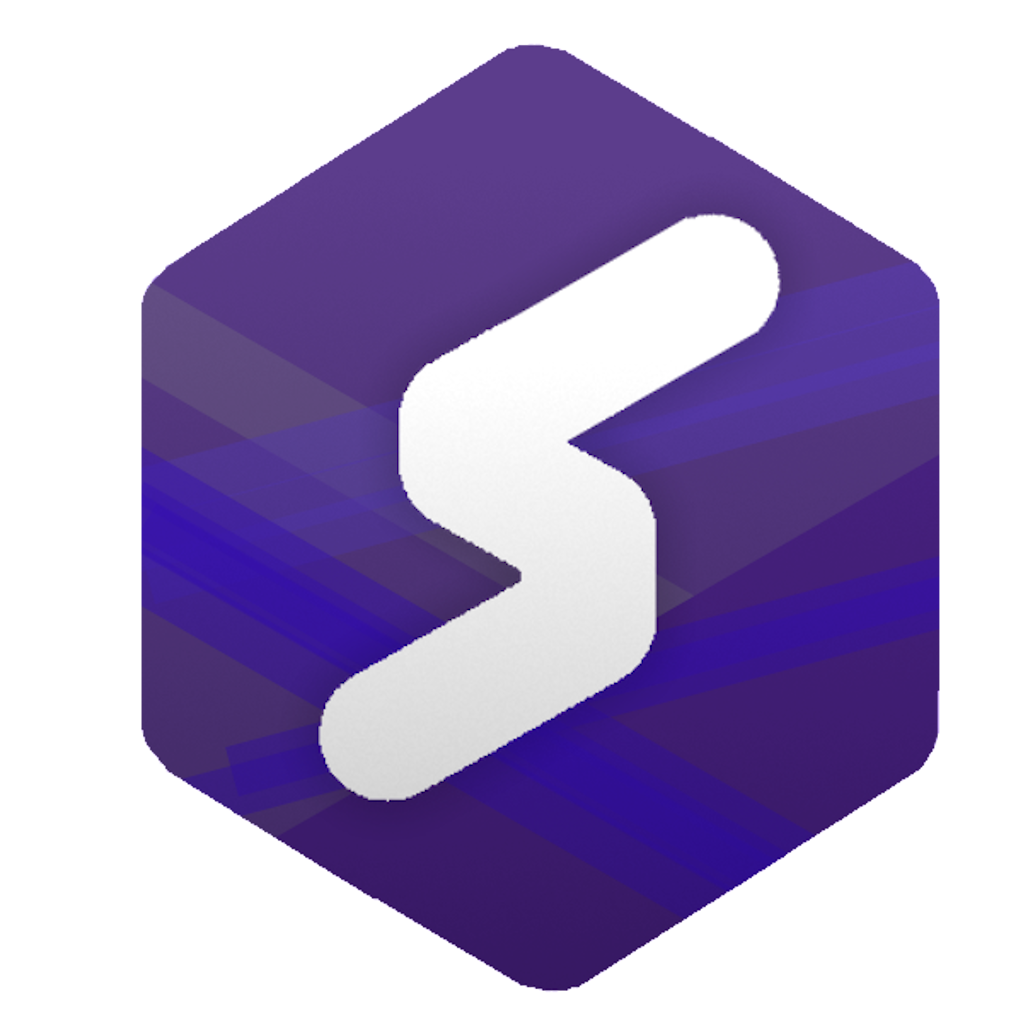
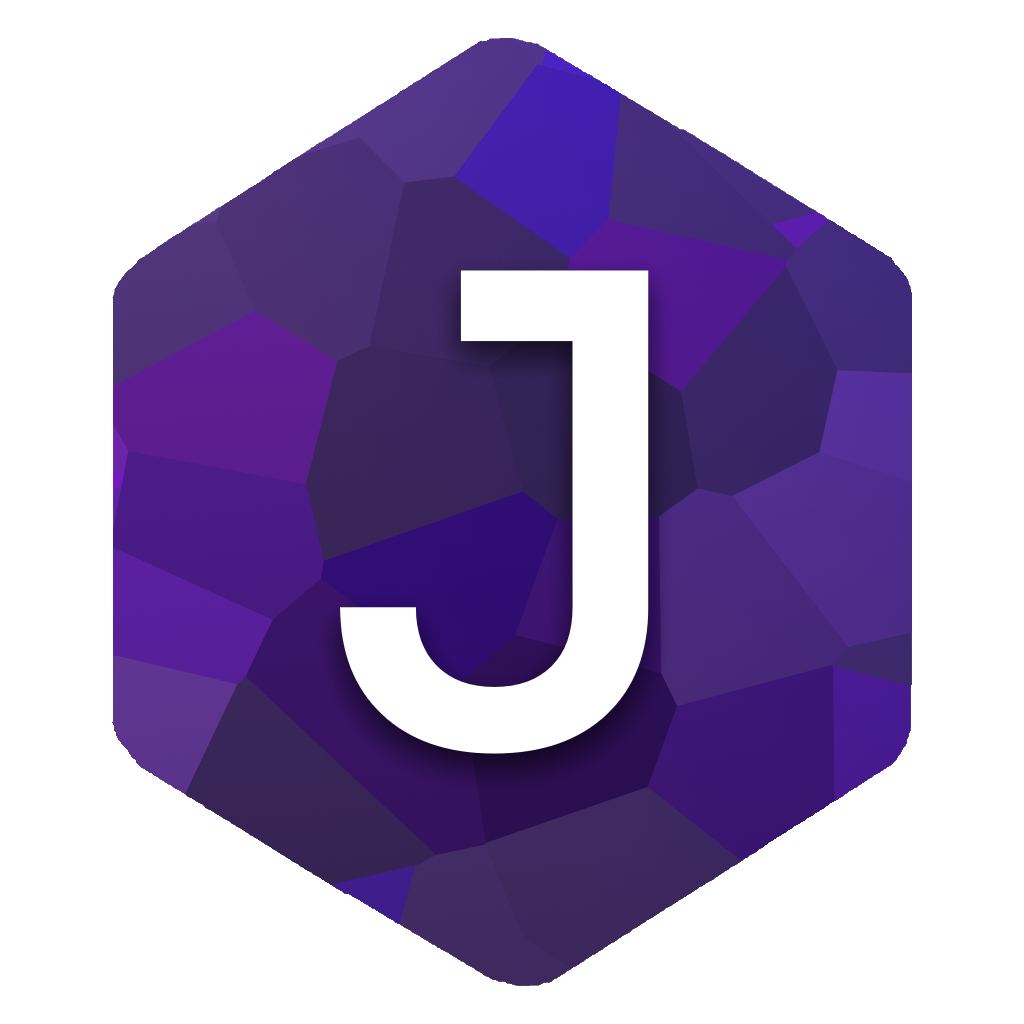
Upravil jsem profilovku, přidal tlačítka pro zobrazení dalšího týdne i toho nynějšího, forcenuti aby se obrazovka dala do landscape a opravil když je půlená hodina (např. Spj/Nej se rozdělilo na 2 hodiny - teď opraveno)

diff --git a/src/main.py b/src/main.py
@@ -7,12 +7,7 @@ import config
 
 config_data = Path(__file__).parent / "config.py"
 
-placeholder_datum = True
-
-if placeholder_datum:
-    datum = "2026-06-15"
-else:
-    datum = date.today().strftime('%Y-%m-%d')
+datum = date.today().strftime('%Y-%m-%d')
 
 days_list = [
     ["Pondělí"],
@@ -65,9 +60,19 @@ def request_timetable():
     response.raise_for_status()
     return response.json()
 
+
+def load_timetable():
+    try:
+        tokengen()
+        timetable_json = request_timetable()
+        get_data_for_timetable(timetable_json)
+        return None
+    except Exception as e:
+        return f"{type(e).__name__}: {e}"
+
 def get_data_for_timetable(timetable_data):
     day_to_row_index = {1: 0, 2: 1, 3: 2, 4: 3, 5: 4}
-    max_lessons = 10
+    max_lessons = 9
 
     subjects_by_id = {
         s["Id"]: s.get("Abbrev") or s.get("Name") or "N/A"
@@ -81,19 +86,31 @@ def get_data_for_timetable(timetable_data):
         if row_idx is None:
             continue
 
+        lessons_by_hour = {}
         for atom in sorted(day.get("Atoms", []), key=lambda a: a.get("HourId", 0)):
+            hour_id = atom.get("HourId", 0)
             subject_id = atom.get("SubjectId") or atom.get("Change", {}).get("SubjectId")
             if subject_id:
-                lessons_by_row[row_idx].append(subjects_by_id.get(subject_id, f"ID:{subject_id}"))
+                lesson_text = subjects_by_id.get(subject_id, f"ID:{subject_id}")
             else:
-                lessons_by_row[row_idx].append(atom.get("DayDescription", ""))
+                lesson_text = atom.get("DayDescription", "")
+
+            if not lesson_text:
+                continue
+
+            lessons_by_hour.setdefault(hour_id, [])
+            if lesson_text not in lessons_by_hour[hour_id]:
+                lessons_by_hour[hour_id].append(lesson_text)
+
+        for hour_id in sorted(lessons_by_hour):
+            lessons_by_row[row_idx].append("/".join(lessons_by_hour[hour_id]))
 
     for row_idx, row in enumerate(days_list):
         day_name = row[0]
         lessons = lessons_by_row.get(row_idx, [])[:max_lessons]
         lessons += [""] * (max_lessons - len(lessons))
         row[:] = [day_name] + lessons
-
+        
 def login_page(page: ft.Page):
     page.clean()
 
@@ -197,24 +214,15 @@ def login_page(page: ft.Page):
 
 def main(page: ft.Page):
 
-    page.clean()
-
     COLUMNS = ["Den", "1", "2", "3", "4", "5", "6", "7", "8", "9"]
     COLUMNS_TIMES = ["Den", "8:10 - 8:55", "9:00 - 9:45", "10:00 - 10:45", "10:55 - 11:40", "11:50 - 12:35", "12:45 - 13:30", "13:35 - 14:20", "14:00 - 14:45", "14:50 - 15:35"]
 
-    error_message = None
-
-    try:
-        tokengen()
-        timetable_json = request_timetable()
-        get_data_for_timetable(timetable_json)
-    except Exception as e:
-        error_message = f"{type(e).__name__}: {e}"
+    error_message = load_timetable()
 
     for row in days_list:
-        if len(row) > 10:
-            del row[10:]
-        row.extend([""] * (10 - len(row)))
+        if len(row) > len(COLUMNS):
+            del row[len(COLUMNS):]
+        row.extend([""] * (len(COLUMNS) - len(row)))
 
     page.window.width = 800 
     page.window.height = 400 
@@ -238,6 +246,10 @@ def main(page: ft.Page):
             body_small=ft.TextStyle(color=color_text_primary, font_family="JetBrainsMono"),
         ),
     )
+
+    page.set_allowed_device_orientations([
+        ft.DeviceOrientation.LANDSCAPE_RIGHT
+    ])
     
     columns = [
         ft.DataColumn(
@@ -274,68 +286,141 @@ def main(page: ft.Page):
         for idx, col in enumerate(COLUMNS)
     ]
 
-    rows = []
+    error_text = ft.Text(
+        f"Error: {error_message}" if error_message else "",
+        color=color_error_text,
+        size=12,
+    )
 
-    for row_data in days_list:
-        cells = []
-        for i, value in enumerate(row_data):
-            bg = None
-            cell_width = 90 if i == 0 else 70
+    error_container = ft.Container(
+        content=error_text,
+        bgcolor=color_error_background,
+        padding=10,
+        border_radius=6,
+        visible=bool(error_message),
+    )
 
-            cells.append(
-                ft.DataCell(
-                    ft.Container(
-                        content=ft.Text(
-                            value,
-                            weight=ft.FontWeight.BOLD if i == 0 else ft.FontWeight.NORMAL,
-                            size=15,
-                            font_family="JetBrainsMono",
-                            no_wrap=True,
-                            text_align=ft.TextAlign.CENTER,
-                        ),
-                        bgcolor=bg,
-                        padding=8,
-                        border_radius=6,
-                        width=cell_width,
-                        alignment=ft.alignment.Alignment(0, 0),
+    def build_table():
+        rows = []
+
+        for row_data in days_list:
+            cells = []
+            for i, value in enumerate(row_data[:len(COLUMNS)]):
+                cell_width = 90 if i == 0 else 70
+
+                cells.append(
+                    ft.DataCell(
+                        ft.Container(
+                            content=ft.Text(
+                                value,
+                                weight=ft.FontWeight.BOLD if i == 0 else ft.FontWeight.NORMAL,
+                                size=15,
+                                font_family="JetBrainsMono",
+                                no_wrap=True,
+                                text_align=ft.TextAlign.CENTER,
+                            ),
+                            padding=8,
+                            border_radius=6,
+                            width=cell_width,
+                            alignment=ft.alignment.Alignment(0, 0),
+                        )
                     )
                 )
-            )
-        rows.append(ft.DataRow(cells=cells))
+            rows.append(ft.DataRow(cells=cells))
 
-    table = ft.DataTable(
-        columns=columns,
-        rows=rows,
-        border=ft.Border.all(3, color_table_border),
-        vertical_lines=ft.BorderSide(2, color_table_border),
-        horizontal_lines=ft.BorderSide(2, color_table_border),
-        heading_row_color=color_heading_row,
-        heading_row_height=60,
-        data_row_min_height=0,
-        column_spacing=0,
-    )
+        return ft.DataTable(
+            columns=columns,
+            rows=rows,
+            border=ft.Border.all(3, color_table_border),
+            vertical_lines=ft.BorderSide(2, color_table_border),
+            horizontal_lines=ft.BorderSide(2, color_table_border),
+            heading_row_color=color_heading_row,
+            heading_row_height=60,
+            data_row_min_height=0,
+            column_spacing=0,
+        )
+
+    def refresh_timetable_next_week(e):
+        nonlocal error_message
+
+        global datum
+        from datetime import timedelta
+
+        current_date = date.fromisoformat(datum)
+        next_week_date = current_date + timedelta(weeks=1)
+        datum = next_week_date.strftime('%Y-%m-%d')
+
+        error_message = load_timetable()
+
+        for row in days_list:
+            if len(row) > len(COLUMNS):
+                del row[len(COLUMNS):]
+            row.extend([""] * (len(COLUMNS) - len(row)))
+
+        error_text.value = f"Error: {error_message}" if error_message else ""
+        error_container.visible = bool(error_message)
+        table_host.content = build_table()
+        page.update()
+
+    def refresh_timetable_current_week(e):
+        nonlocal error_message
+
+        global datum
+        from datetime import date
+
+        datum = date.today().strftime('%Y-%m-%d')
+
+        error_message = load_timetable()
+
+        for row in days_list:
+            if len(row) > len(COLUMNS):
+                del row[len(COLUMNS):]
+            row.extend([""] * (len(COLUMNS) - len(row)))
+
+        error_text.value = f"Error: {error_message}" if error_message else ""
+        error_container.visible = bool(error_message)
+        table_host.content = build_table()
+        page.update()
+
+    table_host = ft.Container(content=build_table())
 
     page.add(
         ft.Column(
             [
-                ft.Text("Jednoduchý rozvrh", size=24, weight=ft.FontWeight.BOLD),
-                *(
+                ft.Row(
                     [
-                        ft.Container(
-                            content=ft.Text(
-                                f"Error: {error_message}",
-                                color=color_error_text,
-                                size=12,
-                            ),
-                            bgcolor=color_error_background,
-                            padding=10,
-                            border_radius=6,
-                        )
-                    ]
-                    if error_message
-                    else []
+                        ft.Container(padding=ft.Padding.only(right=221), content=ft.Text("Jednoduchý rozvrh", size=24, weight=ft.FontWeight.BOLD,)),
+
+                        ft.ElevatedButton("Tento týden",
+                                          style=ft.ButtonStyle(
+                                            shape=ft.RoundedRectangleBorder(radius=0),
+                                            bgcolor={
+                                                ft.ControlState.DEFAULT: color_button_default,
+                                                ft.ControlState.HOVERED: color_button_hovered,
+                                            },
+                                            text_style=ft.TextStyle(weight=ft.FontWeight.W_400, font_family="JetBrainsMono"),
+                                            color=color_text_light,
+                                            mouse_cursor=ft.MouseCursor.CLICK,),
+                                            on_click=refresh_timetable_current_week,
+                                          ),
+                        ft.ElevatedButton("Další týden",
+                                          style=ft.ButtonStyle(
+                                            shape=ft.RoundedRectangleBorder(radius=0),
+                                            bgcolor={
+                                                ft.ControlState.DEFAULT: color_button_default,
+                                                ft.ControlState.HOVERED: color_button_hovered,
+                                            },
+                                            text_style=ft.TextStyle(weight=ft.FontWeight.W_400, font_family="JetBrainsMono"),
+                                            color=color_text_light,
+                                            
+                                            mouse_cursor=ft.MouseCursor.CLICK,),
+                                            on_click=refresh_timetable_next_week,
+                                          ),
+                    ],
+                    alignment=ft.MainAxisAlignment.START,
                 ),
-                ft.Row([table], scroll=ft.ScrollMode.AUTO),
+                error_container,
+                ft.Row([table_host], scroll=ft.ScrollMode.AUTO),
             ],
         )
     )
